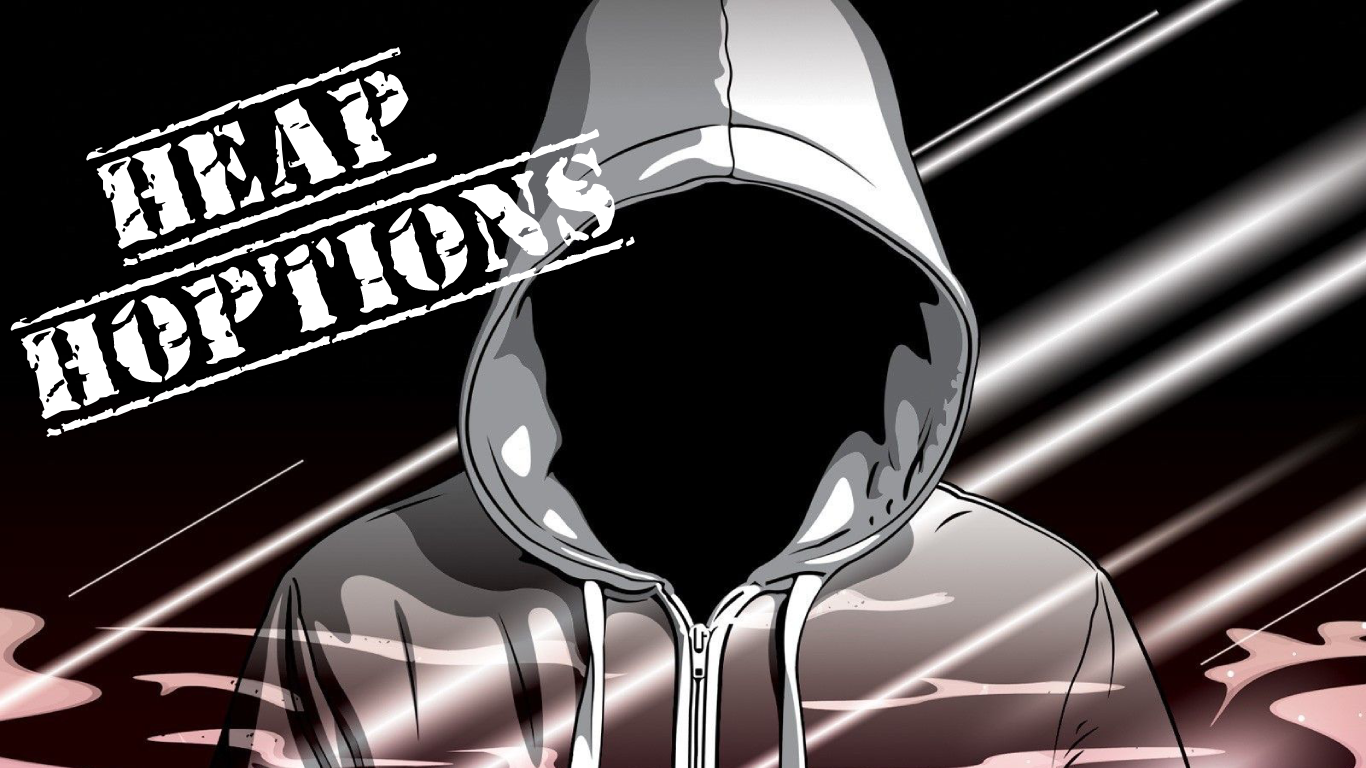
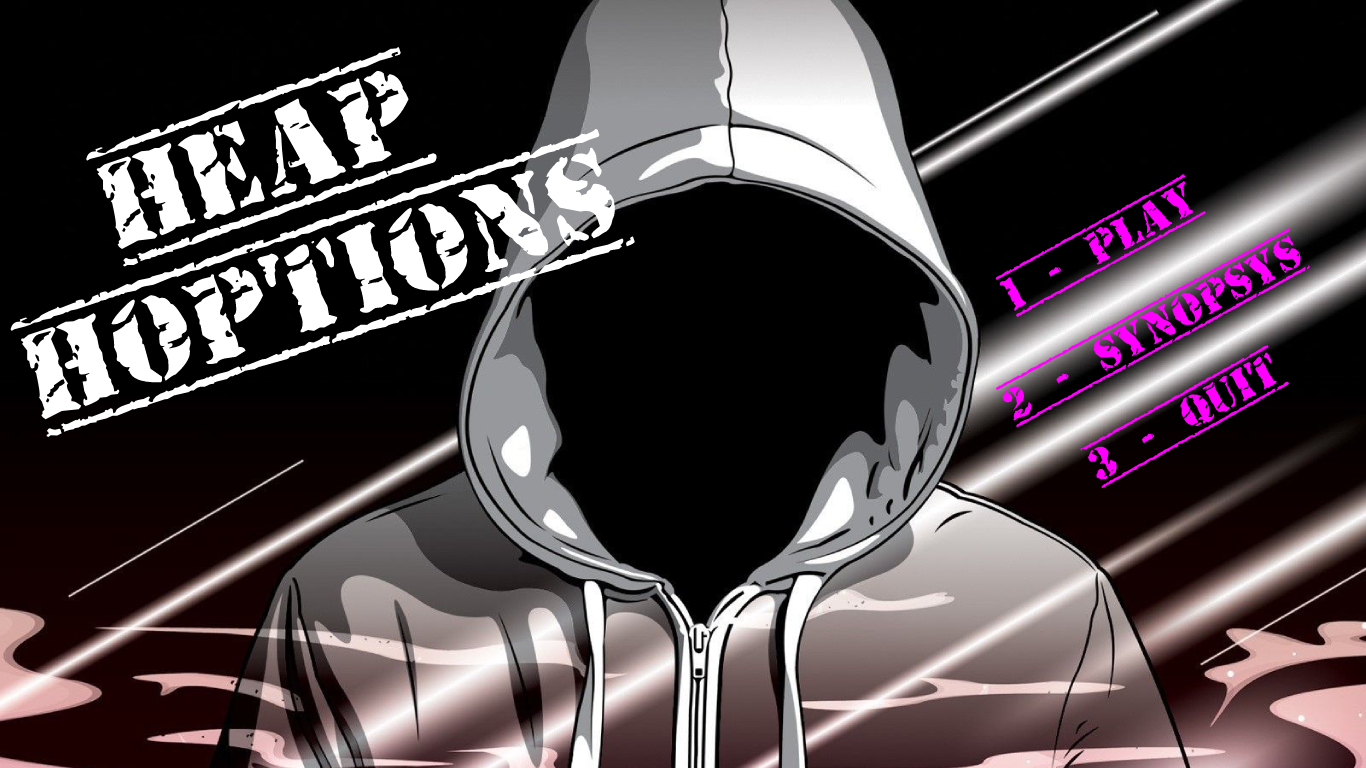
main menus doneeeeeee

diff --git a/core/src/org/academiadecodigo/brownies/heaphoptions/Game.java b/core/src/org/academiadecodigo/brownies/heaphoptions/Game.java
@@ -10,6 +10,7 @@ import com.badlogic.gdx.graphics.Texture;
 import com.badlogic.gdx.graphics.g2d.SpriteBatch;
 import com.badlogic.gdx.math.MathUtils;
 import org.academiadecodigo.brownies.heaphoptions.menus.MainMenu;
+import org.academiadecodigo.brownies.heaphoptions.menus.Synopsys;
 import org.academiadecodigo.brownies.heaphoptions.objects.Player;
 import org.academiadecodigo.brownies.heaphoptions.objects.abstracts.AbstractBuilding;
 import org.academiadecodigo.brownies.heaphoptions.objects.abstracts.AbstractObject;
@@ -24,6 +25,7 @@ public class Game extends ApplicationAdapter {
     enum State {
         MENU,
         GAME,
+        SYNOPSYS,
         WIN,
         LOSE
     }
@@ -48,32 +50,35 @@ public class Game extends ApplicationAdapter {
     private State state = State.MENU;
 
     private MainMenu mainMenu;
+    private Synopsys synopsys;
 
     @Override
     public void create() {
         batch = new SpriteBatch();
 
+        bg = new Texture(Gdx.files.internal("background.png"));
 
+        buildings = objectFactory.createBuildings();
+        createObjects();
 
-            bg = new Texture(Gdx.files.internal("background.png"));
+        camera = new OrthographicCamera();
+        camera.setToOrtho(false, 1366, 768);
 
-            buildings = objectFactory.createBuildings();
-            createObjects();
+        music = Gdx.audio.newMusic(Gdx.files.internal("music/game-song.mp3"));
 
-            camera = new OrthographicCamera();
-            camera.setToOrtho(false, 1366, 768);
+        music.setLooping(true);
 
-            music = Gdx.audio.newMusic(Gdx.files.internal("music/game-song.mp3"));
-
-            music.setLooping(true);
-
-            music.play();
+        music.play();
 
         mainMenu = new MainMenu();
         mainMenu.createImage();
         mainMenu.create();
         mainMenu.setBatch(batch);
 
+        synopsys = new Synopsys();
+        synopsys.createImage();
+        synopsys.create();
+        synopsys.setBatch(batch);
 
     }
 
@@ -81,6 +86,18 @@ public class Game extends ApplicationAdapter {
     public void render() {
         Gdx.gl.glClearColor(0, 0, 0, 1);
         Gdx.gl.glClear(GL20.GL_COLOR_BUFFER_BIT);
+
+        if (state == State.SYNOPSYS) {
+            batch.begin();
+            synopsys.draw(batch);
+            batch.end();
+
+            if (Gdx.input.isKeyPressed(Input.Keys.ESCAPE)) {
+                state = State.MENU;
+            }
+
+            return;
+        }
 
         if (state != State.MENU) {
             camera.position.set(player.getX() + player.getWidth() / 2, player.getY() + player.getHeight() / 2, 0);
@@ -109,8 +126,16 @@ public class Game extends ApplicationAdapter {
     }
 
     private void chooseMenuOption() {
-        if (Gdx.input.isKeyPressed(Input.Keys.ENTER)){
+        if (Gdx.input.isKeyPressed(Input.Keys.NUM_1)) {
             state = State.GAME;
+            return;
+        }
+        if (Gdx.input.isKeyPressed(Input.Keys.NUM_2)) {
+            state = State.SYNOPSYS;
+            return;
+        }
+        if (Gdx.input.isKeyPressed(Input.Keys.NUM_3)) {
+            Gdx.app.exit();
         }
     }
 
@@ -122,7 +147,7 @@ public class Game extends ApplicationAdapter {
         for (AbstractBuilding building : buildings) {
             building.dispose();
         }
-        if (state != State.MENU){
+        if (state != State.MENU) {
             mainMenu.dispose();
         }
     }
@@ -146,6 +171,10 @@ public class Game extends ApplicationAdapter {
 
             if (Gdx.input.isKeyPressed(Input.Keys.D)) {
                 player.moveRight();
+            }
+
+            if (Gdx.input.isKeyPressed(Input.Keys.ESCAPE)) {
+                state = State.MENU;
             }
             return;
         }

diff --git a/core/src/org/academiadecodigo/brownies/heaphoptions/menus/Synopsys.java b/core/src/org/academiadecodigo/brownies/heaphoptions/menus/Synopsys.java
@@ -1,0 +1,30 @@
+package org.academiadecodigo.brownies.heaphoptions.menus;
+
+import com.badlogic.gdx.Gdx;
+import com.badlogic.gdx.graphics.Texture;
+import com.badlogic.gdx.math.Rectangle;
+import org.academiadecodigo.brownies.heaphoptions.Game;
+
+public class Synopsys extends AbstractMenu {
+
+    @Override
+    public void updatePlayer(int influence) {
+
+    }
+
+    @Override
+    public void createImage() {
+
+        texture = new Texture(Gdx.files.internal("synopsys.png"));
+
+    }
+
+    @Override
+    public void create() {
+        rectangle = new Rectangle();
+        rectangle.x = 0;
+        rectangle.y = 0;
+        rectangle.width = Game.SCREEN_WIDTH;
+        rectangle.height = Game.SCREEN_HEIGHT;
+    }
+}
